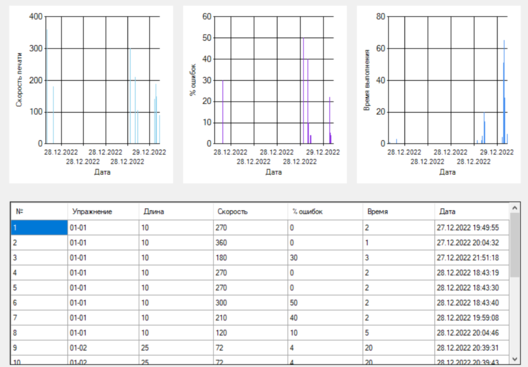
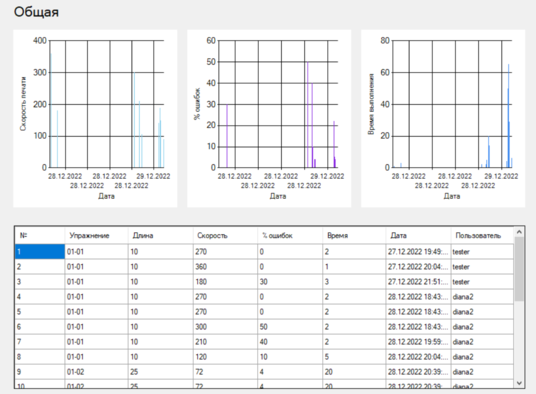
Добавлен столбец пользователей в статистику администратора.

diff --git a/DiagrammForm.cs b/DiagrammForm.cs
@@ -18,14 +18,15 @@ namespace KeyboardWIndowApp
         public DiagrammForm() // Общая статистика
         {
             InitializeComponent();
-            labelAbout.Text = "Общая"; 
+            labelAbout.Text = "Общая";
+            dataGVStatistic.Columns.Add("userColumn", "Пользователь");
             List<Statistics> st = StatisticWork.GetListStatAll();
             int[] ar_ex_time = new int[st.Count];
             for (int i = 0; i < st.Count; i++)
             {
                 Exercise ex = ExerciseWork.GetExerciseById(st[i].ExerciseId);
                 dataGVStatistic.Rows.Add(i + 1, ex.Name, ex.Len, st[i].TipeSpeed, 
-                    st[i].ErrorPct, ar_ex_time[i] = (int)(60 * ex.Len) / st[i].TipeSpeed, st[i].Date);
+                    st[i].ErrorPct, ar_ex_time[i] = (int)(60 * ex.Len) / st[i].TipeSpeed, st[i].Date, UserWork.GetUserById(st[i].UserId).Login);
             }
             chartView(st, ar_ex_time);
         }
@@ -51,13 +52,14 @@ namespace KeyboardWIndowApp
         {
             InitializeComponent();
             labelAbout.Text = "Статистика по упражнению " + ex_name;
+            dataGVStatistic.Columns.Add("userColumn", "Пользователь");
             Exercise ex = ExerciseWork.GetExerciseByName(ex_name);
             List<Statistics> st = StatisticWork.GetListStatByExersID(ex_id);
             int[] ar_ex_time = new int[st.Count];
             for (int i = 0; i < st.Count; i++)
             {
                 dataGVStatistic.Rows.Add(i + 1, ex_name, ex.Len, st[i].TipeSpeed, 
-                    st[i].ErrorPct, ar_ex_time[i] = (int)(60* ex.Len)/ st[i].TipeSpeed, st[i].Date);
+                    st[i].ErrorPct, ar_ex_time[i] = (int)(60* ex.Len)/ st[i].TipeSpeed, st[i].Date, UserWork.GetUserById(st[i].UserId).Login);
             }
             chartView(st, ar_ex_time);
         }

diff --git a/StaticClasses/UserWork.cs b/StaticClasses/UserWork.cs
@@ -27,13 +27,13 @@ namespace KeyboardWIndowApp.StaticClasses
             }
         }
 
-        //public static User GetUserById(long id)
-        //{
-        //    using (Context context = new Context())
-        //    {
-        //        return context.User.FirstOrDefault(u => u.Id == id);
-        //    }
-        //}
+        public static User GetUserById(long id)
+        {
+            using (Context context = new Context())
+            {
+                return context.User.FirstOrDefault(u => u.Id == id);
+            }
+        }
 
         public static User GetUserByLogin(string login)
         {

diff --git a/DiagrammForm.Designer.cs b/DiagrammForm.Designer.cs
@@ -72,7 +72,6 @@ namespace KeyboardWIndowApp
             this.chartSpeed.Name = "chartSpeed";
             this.chartSpeed.Palette = System.Windows.Forms.DataVisualization.Charting.ChartColorPalette.Pastel;
             series1.ChartArea = "ChartArea1";
-            series1.ChartType = System.Windows.Forms.DataVisualization.Charting.SeriesChartType.Spline;
             series1.Legend = "Legend1";
             series1.Name = "Series1";
             this.chartSpeed.Series.Add(series1);
